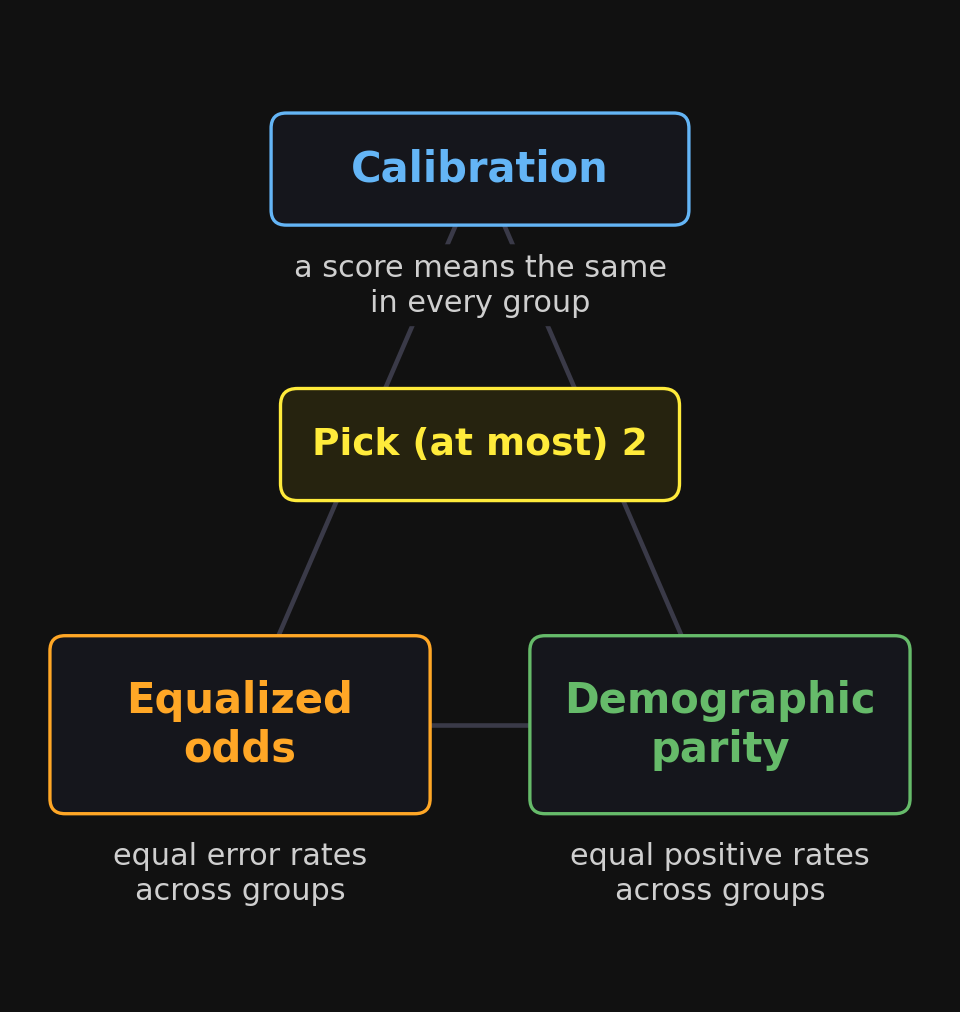
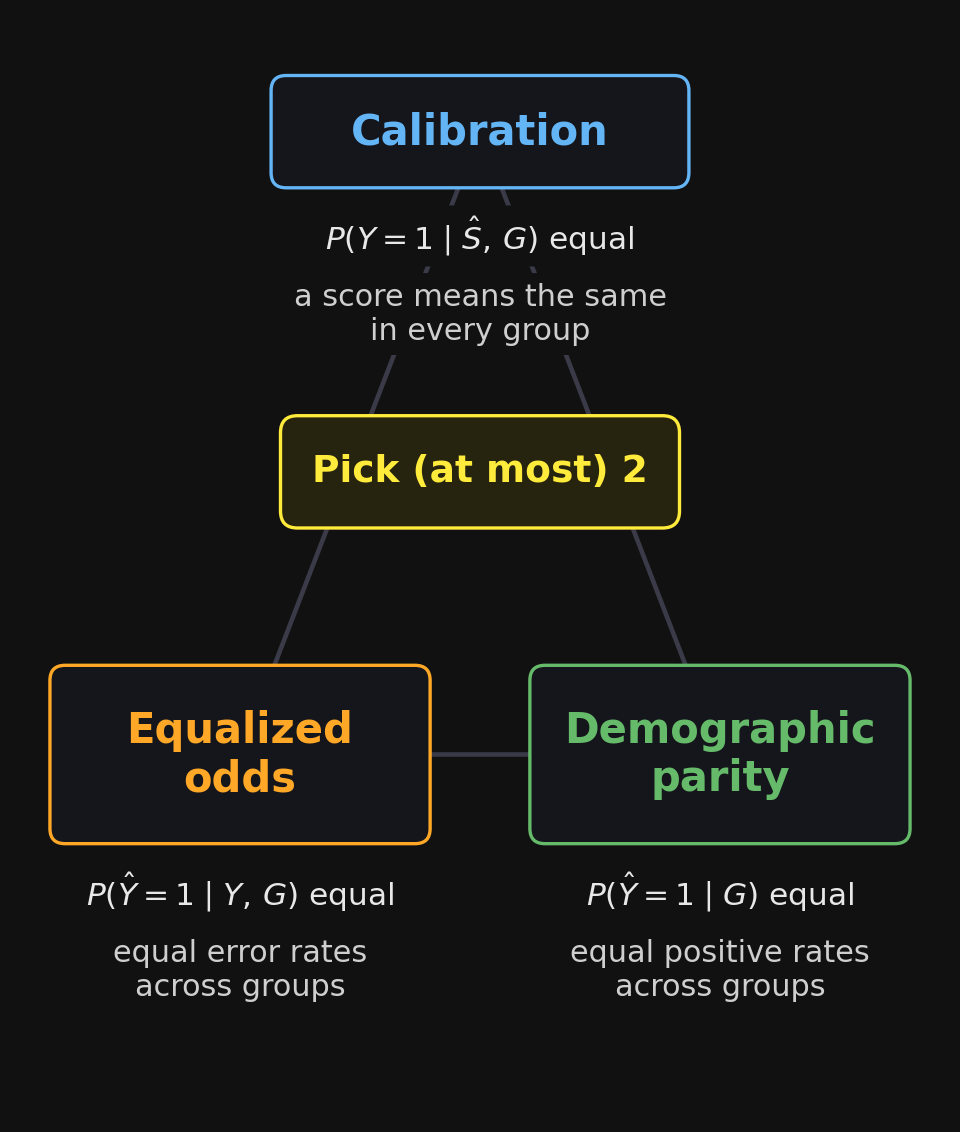
autosync beancupter 2026-07-16T20:00:02+09:00

Changed region(s): [[0.0312, 0.0613, 0.9688, 0.8883], [0.4688, 0.7045, 0.5312, 0.7352], [0.4688, 0.6433, 0.5312, 0.6739]]

diff --git a/course/week12_ethics_adversarial/make_figures.py b/course/week12_ethics_adversarial/make_figures.py
@@ -140,26 +140,33 @@ def fig_fairness_impossibility():
     punchline carry those), and fonts sized so box titles land ≈ slide body
     size when scaled down.
     """
-    fig,ax=blank_axes((6.4,6.75),xlim=(0,10),ylim=(0,10.55))
-    # (title, cx, cy, box-width, color, gloss)
-    nodes=[("Calibration",       5.0,8.85,4.4,ACC,"a score means the same\nin every group"),
-           ("Equalized\nodds",   2.45,2.95,4.0,ORA,"equal error rates\nacross groups"),
-           ("Demographic\nparity",7.55,2.95,4.0,GRN,"equal positive rates\nacross groups")]
-    cen=[(cx,cy) for (_,cx,cy,_,_,_) in nodes]
+    fig,ax=blank_axes((6.4,7.55),xlim=(0,10),ylim=(0,11.8))
+    # (title, cx, cy, box-width, color, formula, gloss) — the formula is the
+    # SAME conditional-probability definition the previous slide's card
+    # introduces, so the figure carries the formal statement next to each node.
+    nodes=[("Calibration",        5.0,10.50,4.4,ACC,
+            r"$P(Y{=}1 \mid \hat{S},\,G)$ equal","a score means the same\nin every group"),
+           ("Equalized\nodds",    2.45,3.90,4.0,ORA,
+            r"$P(\hat{Y}{=}1 \mid Y,\,G)$ equal","equal error rates\nacross groups"),
+           ("Demographic\nparity",7.55,3.90,4.0,GRN,
+            r"$P(\hat{Y}{=}1 \mid G)$ equal","equal positive rates\nacross groups")]
+    cen=[(cx,cy) for (_,cx,cy,_,_,_,_) in nodes]
     # edges first (behind everything)
     for i in range(3):
         for j in range(i+1,3):
             ax.plot([cen[i][0],cen[j][0]],[cen[i][1],cen[j][1]],color=EDGE,lw=2.2,zorder=1)
-    # nodes + glosses (gloss in its own band, masked over the edge lines)
-    for (title,cx,cy,w,col,gloss) in nodes:
+    # nodes + formula + gloss (each in its own band, masked over the edge lines)
+    for (title,cx,cy,w,col,formula,gloss) in nodes:
         h=1.15 if "\n" not in title else 1.85
         rbox(ax,cx-w/2,cy-h/2,w,h,title,fc="#15161c",ec=col,fs=20,tc=col,
              weight="bold",rs=0.16)
-        ax.text(cx,cy-h/2-0.32,gloss,ha="center",va="top",fontsize=14.5,color="#cfcfcf",
+        ax.text(cx,cy-h/2-0.30,formula,ha="center",va="top",fontsize=15,color="#e8e8e8",
+                zorder=6,bbox=dict(boxstyle="round,pad=0.28",fc=BG,ec="none"))
+        ax.text(cx,cy-h/2-1.02,gloss,ha="center",va="top",fontsize=14.5,color="#cfcfcf",
                 zorder=6,linespacing=1.25,
                 bbox=dict(boxstyle="round,pad=0.30",fc=BG,ec="none"))
     # center badge
-    rbox(ax,2.9,5.35,4.2,1.15,"Pick (at most) 2",fc="#26230f",ec=YEL,fs=18,tc=YEL,
+    rbox(ax,2.9,6.32,4.2,1.15,"Pick (at most) 2",fc="#26230f",ec=YEL,fs=18,tc=YEL,
          weight="bold",rs=0.18)
     fig.tight_layout(pad=0.35)
     fig.savefig("images/fairness_impossibility.png",dpi=150); plt.close(fig)
